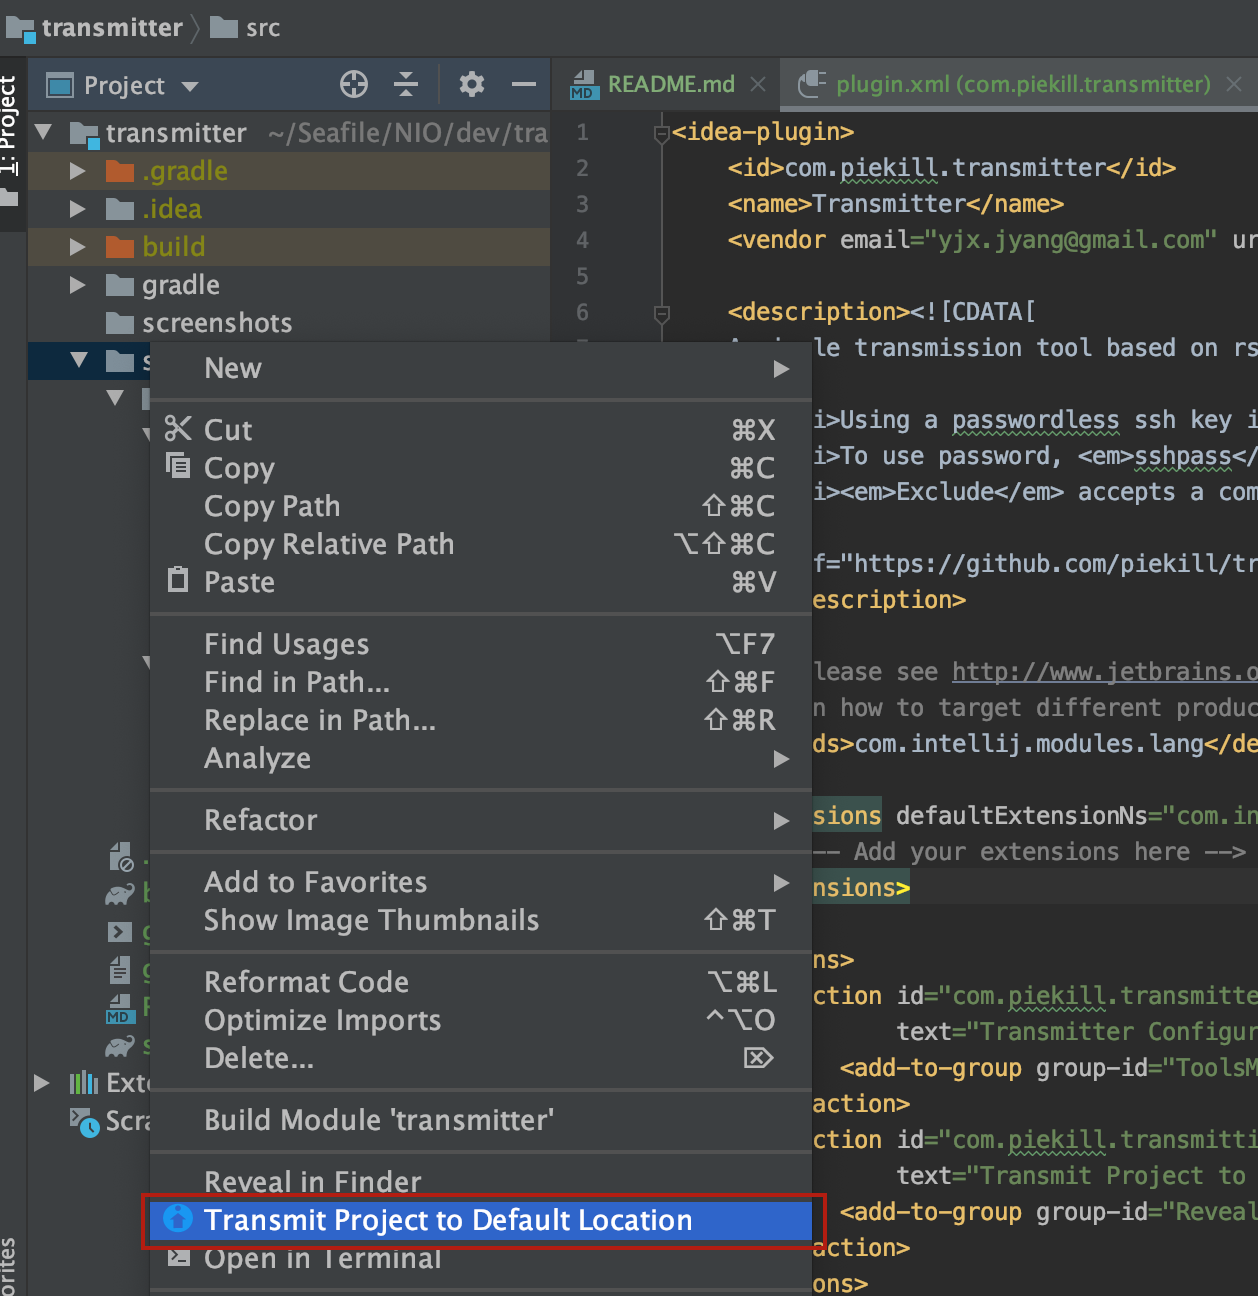
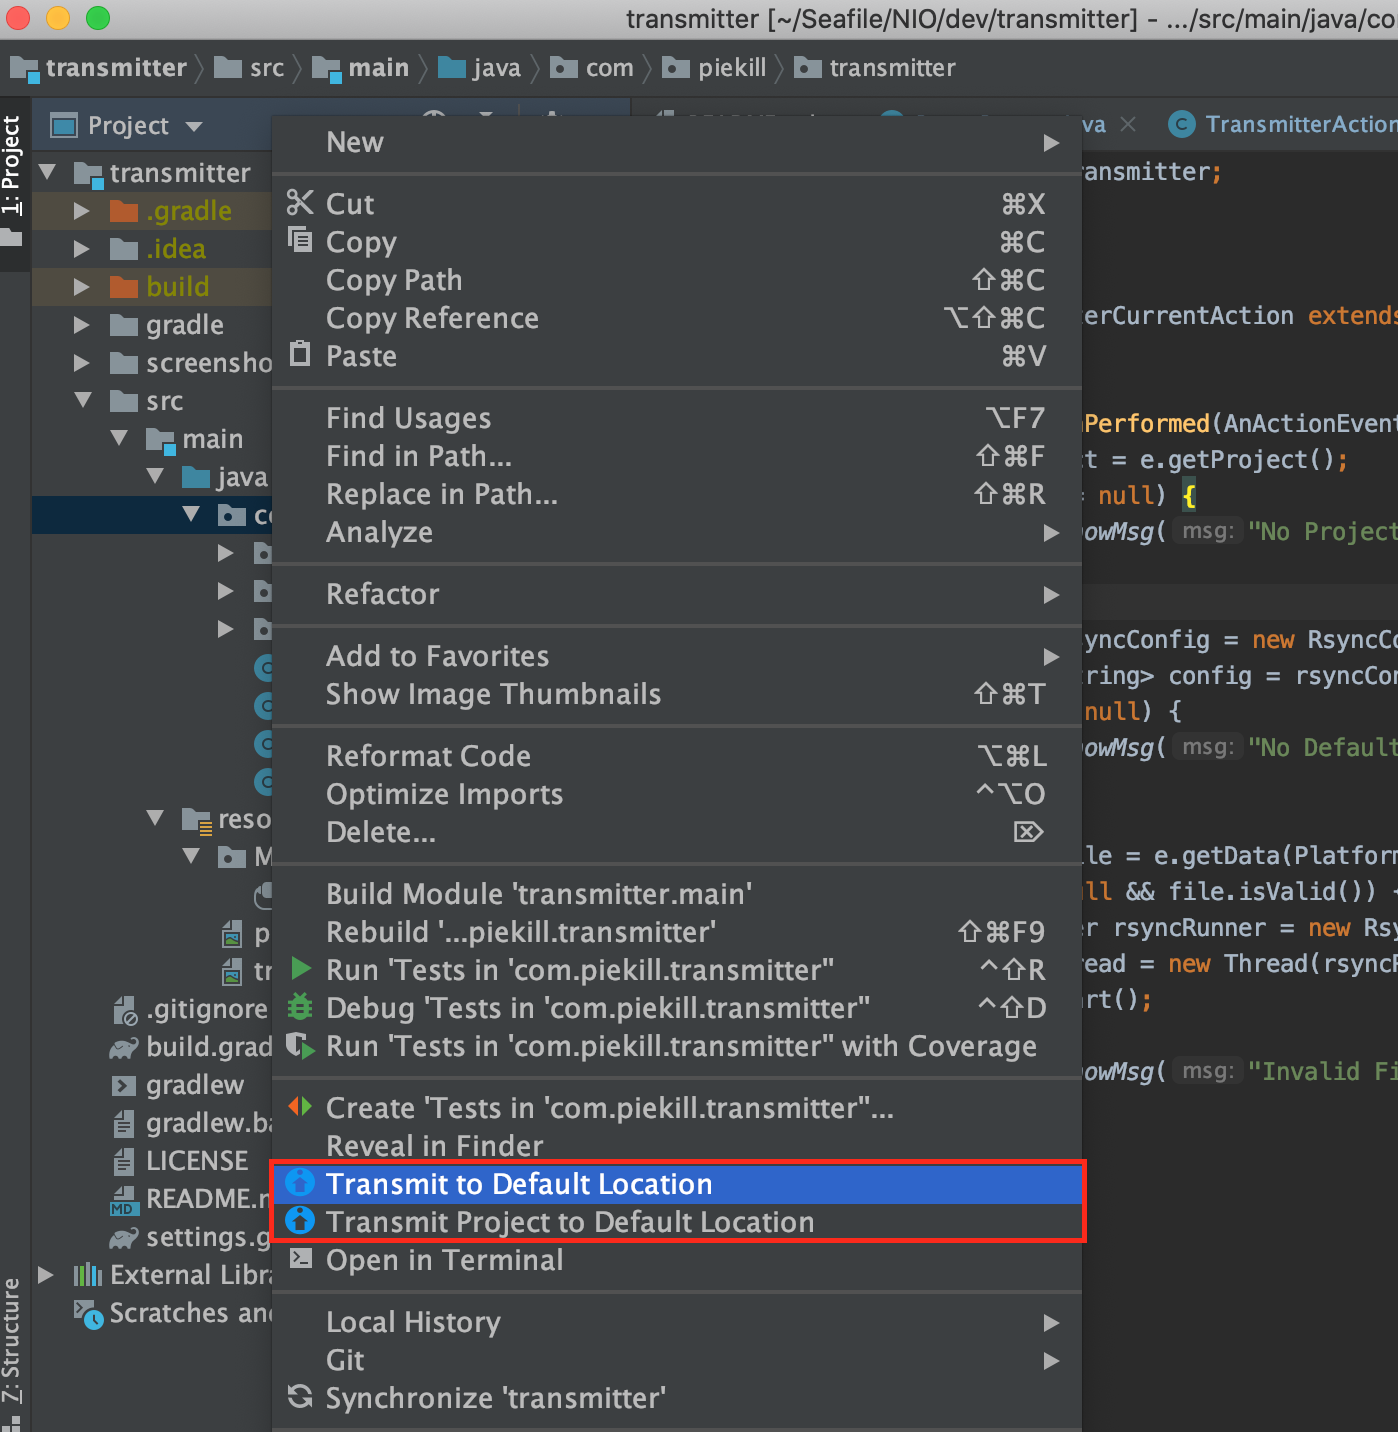
support sending specific file/directory; fix compatible builds

Changed region(s): [[0.0, 0.0, 1.0, 1.0]]

diff --git a/src/main/java/com/piekill/transmitter/RsyncRunner.java b/src/main/java/com/piekill/transmitter/RsyncRunner.java
@@ -4,6 +4,7 @@ import com.github.fracpete.processoutput4j.output.CollectingProcessOutput;
 import com.github.fracpete.rsync4j.RSync;
 import com.intellij.notification.Notification;
 import com.intellij.notification.NotificationType;
+import com.intellij.openapi.vfs.VirtualFile;
 import com.piekill.transmitter.utils.MsgUtil;
 
 import java.util.Map;
@@ -12,10 +13,16 @@ public class RsyncRunner implements Runnable {
 
     private final Map<String, String> config;
     private final String basePath;
+    private VirtualFile file = null;
 
     public RsyncRunner(Map<String, String> config, String basePath) {
         this.config = config;
         this.basePath = basePath;
+    }
+
+    public RsyncRunner(Map<String, String> config, String basePath, VirtualFile file) {
+        this(config, basePath);
+        this.file = file;
     }
 
     @Override
@@ -23,14 +30,26 @@ public class RsyncRunner implements Runnable {
         Notification notification = MsgUtil.showMsg("Running rsync...", NotificationType.INFORMATION);
 
         String remotePath = config.get(".remote.path");
-        if(!remotePath.endsWith("/")){
-            remotePath = remotePath + "/";
+        String base, remote;
+        if (file == null) {
+            base = basePath + "/";
+            remote = remotePath.endsWith("/") ? remotePath : remotePath + "/";
+        } else {
+            String filePath = file.getPath();
+            base = file.isDirectory() ? filePath + "/" : filePath;
+            remote = remotePath + filePath.replace(basePath, "");
         }
+
         RSync rsync = new RSync()
-                .source(basePath + "/")
-                .destination(config.get(".user") + "@" + config.get(".host") + ":" + remotePath)
+                .source(base)
+                .destination(config.get(".user") + "@" + config.get(".host") + ":" + remote)
                 .recursive(true)
                 .exclude(".*");
+        // --rsync-path trick: https://stackoverflow.com/a/14877351
+        if (file != null) {
+            rsync.rsyncPath("mkdir -p " + remotePath + file.getParent().getPath().replace(basePath, "") + " && rsync");
+        }
+
         if(config.get(".key.file")!= null && !config.get(".key.file").equals("") ||
                 config.get(".password")!= null && !config.get(".password").equals("")) {
             String keyFileOpt = config.get(".key.file").equals("") ? "" : " -i " + config.get(".key.file");
@@ -47,8 +66,7 @@ public class RsyncRunner implements Runnable {
                 rsync.exclude(excludePath);
             }
         }
-        // or if you prefer using commandline options:
-        // rsync.setOptions(new String[]{"-r", "/one/place/", "/other/place/"});
+
         try {
             CollectingProcessOutput output = rsync.execute();
             notification.expire();

diff --git a/src/main/java/com/piekill/transmitter/TransmitterCurrentAction.java b/src/main/java/com/piekill/transmitter/TransmitterCurrentAction.java
@@ -3,13 +3,15 @@ package com.piekill.transmitter;
 import com.intellij.notification.NotificationType;
 import com.intellij.openapi.actionSystem.AnAction;
 import com.intellij.openapi.actionSystem.AnActionEvent;
+import com.intellij.openapi.actionSystem.PlatformDataKeys;
 import com.intellij.openapi.project.Project;
+import com.intellij.openapi.vfs.VirtualFile;
 import com.piekill.transmitter.config.RsyncConfig;
 import com.piekill.transmitter.utils.MsgUtil;
 
 import java.util.Map;
 
-public class TransmitterAction extends AnAction {
+public class TransmitterCurrentAction extends AnAction {
 
     @Override
     public void actionPerformed(AnActionEvent e) {
@@ -24,8 +26,13 @@ public class TransmitterAction extends AnAction {
             MsgUtil.showMsg("No Default Connection", NotificationType.ERROR);
             return;
         }
-        RsyncRunner rsyncRunner = new RsyncRunner(config, project.getBasePath());
-        Thread thread = new Thread(rsyncRunner);
-        thread.start();
+        VirtualFile file = e.getData(PlatformDataKeys.VIRTUAL_FILE);
+        if (file != null && file.isValid()) {
+            RsyncRunner rsyncRunner = new RsyncRunner(config, project.getBasePath(), file);
+            Thread thread = new Thread(rsyncRunner);
+            thread.start();
+        } else {
+            MsgUtil.showMsg("Invalid File/Directory", NotificationType.ERROR);
+        }
     }
 }

diff --git a/README.md b/README.md
@@ -15,6 +15,8 @@ Repo for Jetbrains plugin **Transmitter**. Transmitter is a simple transmission 
 
 3. Send project using "Transmit project to Default Location" in the context menu
 
+4. Or send current file/directory using "Transmit to Default Location"
+
 #### Screenshots
 ![config_menu](https://github.com/piekill/transmitter/blob/master/screenshots/config_menu.png?raw=true "Configuration Menu")
 ![config_dialog](https://github.com/piekill/transmitter/blob/master/screenshots/config_dialog.png?raw=true "Configuration Dialog")
